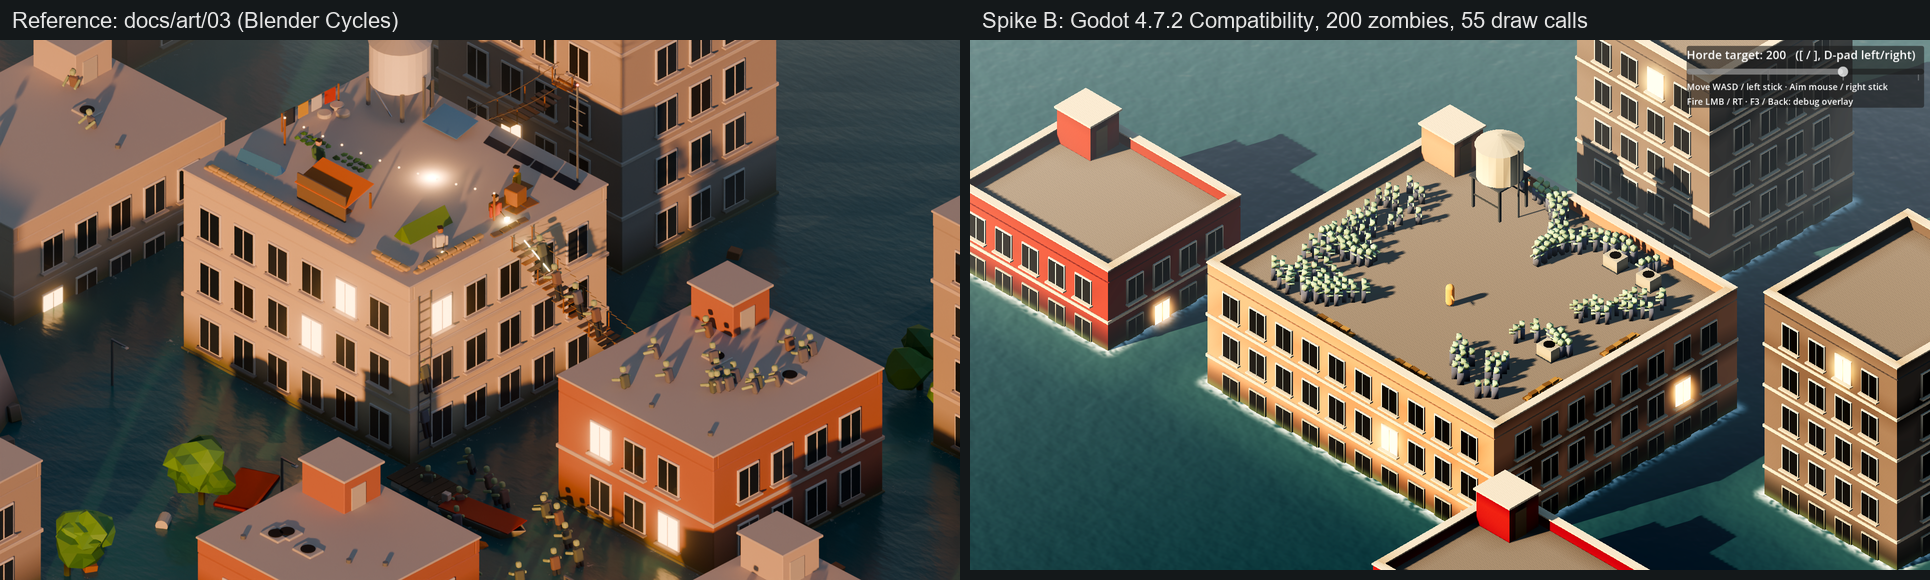
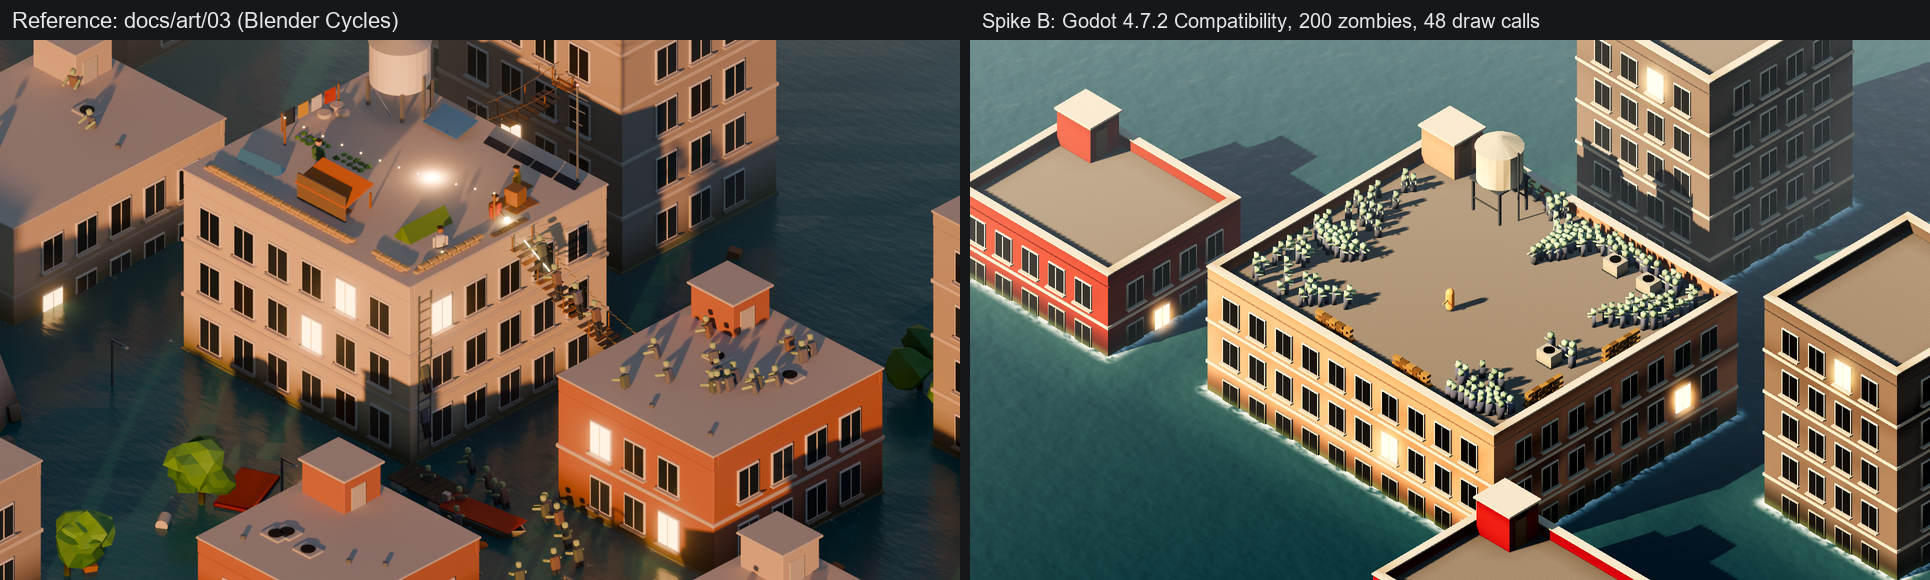
Address PR #4 review: sandbag height, capture UI and save errors
- Sandbag wall is now 5 rows (1.0 m), above the 0.9 m muzzle height,
  so the hitscan block it shares with the nav grid matches what you see
- --hide-ui hides every CanvasLayer, including the spikes' own HUD
- Capture checks save_png and quits with exit code 1 on failure
- Recaptured docs/art/05_spike_b_vs_ref.png without the HUD

Changed region(s): [[0.4974, 0.0621, 1.0, 1.0], [0.4974, 0.0, 0.8394, 0.0621], [0.7461, 0.2172, 0.7772, 0.2483]]

diff --git a/tools/blender/kit_props.py b/tools/blender/kit_props.py
@@ -4,6 +4,7 @@ usage: blender -b --factory-startup --python tools/blender/kit_props.py -- [out_
 
 Origin = centre of the footprint on the roof surface (z = 0).
 Footprints (for nav-grid obstacles): water tower 3.4 x 3.4, AC unit 1.3 x 1.0, sandbag wall 3.2 x 0.7.
+Every footprint also blocks hitscan, so each prop reaches at least the 0.9 m muzzle height.
 """
 import math
 import os
@@ -33,10 +34,13 @@ def ac_unit(mb):
     mb.box((0, 0, 0.03), (1.4, 1.1, 0.06), "metal")
 
 
+SANDBAG_ROWS = 5  # 5 x 0.2 m = 1.0 m: above the 0.9 m muzzle height, so it visibly blocks shots
+
+
 def sandbag_wall(mb):
-    for row in range(2):
+    for row in range(SANDBAG_ROWS):
         for i in range(5):
-            x = -1.28 + i * 0.64 + (0.32 if row else 0.0)
+            x = -1.28 + i * 0.64 + (0.32 if row % 2 else 0.0)
             if x > 1.3:
                 continue
             col = "sand" if (i + row) % 2 == 0 else "sand_dark"

diff --git a/docs/PHASE0_RESULTS.md b/docs/PHASE0_RESULTS.md
@@ -63,7 +63,7 @@ Live: default URL (`?spike=style`); Spike A stays at `?spike=horde`.
 
 | Device | Browser | Scene | FPS | Draw calls | Primitives | Notes |
 | --- | --- | --- | --- | --- | --- | --- |
-| Desktop RTX 4080 | desktop GL Compatibility 1080p | style + 200 zombies | 144 (vsync) | 55 | 88k | capture used for the comparison |
+| Desktop RTX 4080 | desktop GL Compatibility 1080p | style + 200 zombies | 144 (vsync) | 48–55 | 88k | capture used for the comparison (`--hide-ui`) |
 | Desktop RTX 4080 | Claude pane (Chromium) | style + 200 zombies | 144 (vsync) | 45 | 69k | horde update 1.8 ms |
 | Laptop Intel Arc | Chrome | style + 200 zombies | — | — | — | **J: pass ≥ 50 FPS, draw calls < 250** |
 
